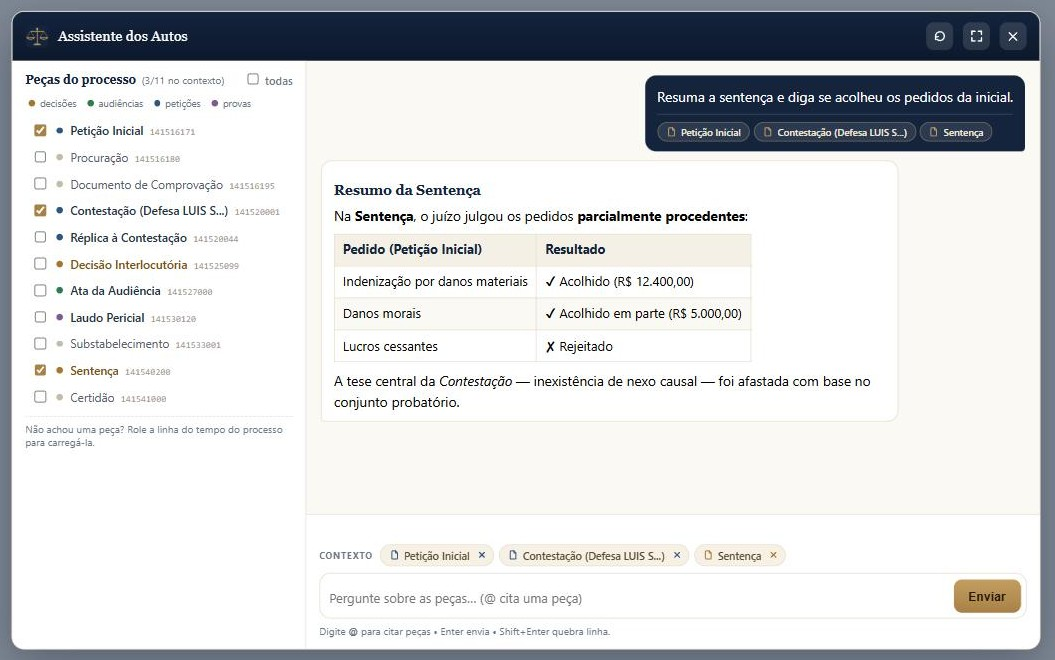
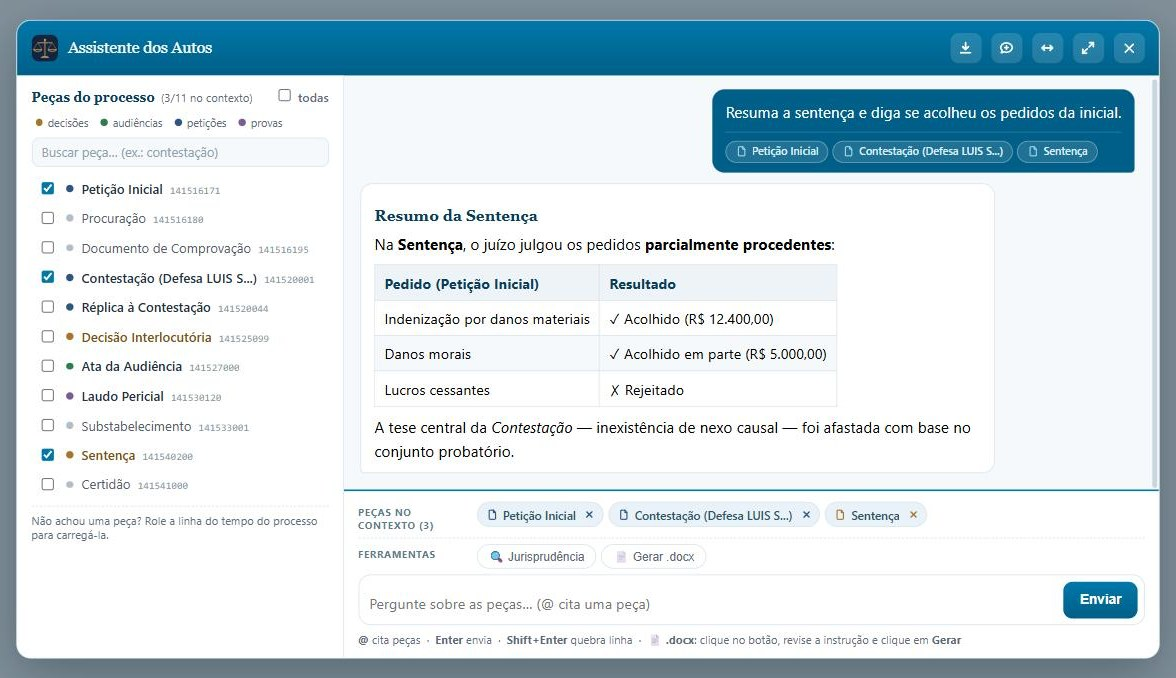
docs: README deixa claro que e chat manual (nao agente autonomo) + tela nova
Nova secao "O que ele e — e o que ele nao e": o usuario seleciona as pecas
manualmente e pergunta; diferente de agentes autonomos (Claude Code, Agent
SDK) que via MCP (ex.: TecJustica) navegam e leem os autos sozinhos, com
tabela comparativa. Screenshots de docs/ regeneradas na paleta do PJe via
mock local (dados ficticios), badges atualizados, recursos incluem busca de
pecas e a deteccao PDF x HTML com sniff %PDF-.

Testado ao vivo no PJe/TJCE: paleta nova, marcacao, medidor, deteccao
(Ata=HTML texto / Substabelecimento=PDF), chat com citacoes e geracao de
.docx com download — tudo funcionando.

Claude-Session: https://claude.ai/code/session_016HW275GyURaCABX8X3yTGo

Changed region(s): [[0.0, 0.0, 1.0, 1.0], [0.3033, 0.2727, 0.728, 0.4848], [0.8796, 0.8485, 0.9706, 0.9394]]

diff --git a/README.md b/README.md
@@ -3,25 +3,53 @@
 </p>
 
 <p align="center">
-  <a href="LICENSE"><img alt="Licença MIT" src="https://img.shields.io/badge/licen%C3%A7a-MIT-c49e60?style=flat-square"></a>
-  <img alt="Chrome Manifest V3" src="https://img.shields.io/badge/Chrome-Manifest%20V3-14243d?style=flat-square&logo=googlechrome&logoColor=white">
-  <img alt="Claude API" src="https://img.shields.io/badge/IA-Claude%20(Anthropic)-c49e60?style=flat-square">
-  <img alt="PJe 1º grau" src="https://img.shields.io/badge/PJe-1%C2%BA%20grau-14243d?style=flat-square">
+  <a href="LICENSE"><img alt="Licença MIT" src="https://img.shields.io/badge/licen%C3%A7a-MIT-0078aa?style=flat-square"></a>
+  <img alt="Chrome Manifest V3" src="https://img.shields.io/badge/Chrome-Manifest%20V3-005f88?style=flat-square&logo=googlechrome&logoColor=white">
+  <img alt="Claude API" src="https://img.shields.io/badge/IA-Claude%20(Anthropic)-0078aa?style=flat-square">
+  <img alt="PJe 1º grau" src="https://img.shields.io/badge/PJe-1%C2%BA%20grau-005f88?style=flat-square">
 </p>
 
 **PJe IA** é uma extensão Chrome que adiciona um assistente de IA à tela de autos digitais
 do **PJe (Processo Judicial Eletrônico)**. Você marca as peças do processo, pergunta em
 linguagem natural e o **Claude** responde com base no conteúdo real dos documentos —
-resumos, linhas do tempo, partes, pedidos, provas — direto na página do processo.
+resumos, linhas do tempo, partes, pedidos, provas — direto na página do processo, com a
+interface na paleta visual do próprio PJe.
 
 <p align="center">
   <img src="docs/painel-expandido.jpg" alt="Painel expandido: peças categorizadas por cor, chips de contexto e resposta em tabela" width="720">
 </p>
 
+## 🎯 O que ele é — e o que ele não é
+
+**PJe IA é um chat simplificado sobre os autos, não um agente autônomo.** Ele não navega
+no processo sozinho: **você** seleciona as peças (pelos checkboxes ou digitando `@`) e, a
+partir delas, faz perguntas, pedidos e gera documentos. A resposta usa somente os
+documentos que você marcou — nada entra no contexto sem a sua escolha.
+
+É um modelo diferente do de um **agente autônomo** — como o **Claude Code** ou agentes
+construídos com a **Claude Agent SDK** e frameworks afins — que, conectado a um MCP
+jurídico como o [TecJustiça](https://pjece.tecjustica.com/), decide sozinho quais peças
+abrir, lê os autos por conta própria e gerencia o contexto automaticamente.
+
+| | **PJe IA (esta extensão)** | **Agente autônomo + MCP** (Claude Code, Agent SDK…) |
+|---|---|---|
+| Quem escolhe as peças | **Você**, manualmente | O agente decide o que abrir e ler |
+| Fluxo | Marcar peças → perguntar → resposta | Delegar a tarefa → o agente navega e itera sozinho |
+| Contexto | Limitado à janela do modelo (medidor no rodapé) | Gerenciado automaticamente pelo agente |
+| Ideal para | Consultas dirigidas, resumos, relatórios de peças escolhidas | Autos muito volumosos, tarefas abertas de investigação |
+| Instalação | Extensão Chrome + chave da API | Ambiente de agente (CLI/SDK) + servidor MCP |
+
+Os dois se complementam: para o dia a dia dentro do PJe, o chat manual é direto e
+previsível (você sabe exatamente o que a IA leu); para autos gigantes ou tarefas de
+investigação aberta, um agente com MCP é o caminho — o próprio painel sugere o
+[TecJustiça MCP](https://pjece.tecjustica.com/) quando o contexto enche.
+
 ## ✨ Recursos
 
 - **Chat sobre os autos** — converse com o Claude sobre as peças selecionadas, com histórico multi-turno.
 - **Seleção de peças** — checkboxes por documento; só o que você marcar é enviado.
+- **Busca na lista de peças** — filtro instantâneo por título, ignorando acentos; "todas" marca/desmarca só as peças visíveis no filtro.
+- **PDF × HTML detectados automaticamente** — peças HTML têm o texto extraído localmente e vão como texto puro (fração do custo de um PDF); a detecção confere o content-type **e** a assinatura `%PDF-` do binário, então PDF mal-rotulado pelo servidor não vira lixo no contexto.
 - **Menção com `@`** — digite `@` no campo de pergunta para buscar e marcar peças sem sair do teclado: filtro que ignora acentos (`@peticao` acha "Petição Inicial"), navegação por `↑↓`, `Enter` marca/desmarca, `Esc` fecha.
 - **Peças categorizadas por cor** — decisões, atas/audiências, petições e provas ganham destaque automático na lista (regex sobre o título), com legenda no modo expandido.
 - **Contexto sempre visível** — chips acima do campo mostram as peças marcadas (com `×` para remover), o contador indica `x/y no contexto`, e cada pergunta exibe quais peças foram anexadas naquele turno.
@@ -33,7 +61,7 @@ resumos, linhas do tempo, partes, pedidos, provas — direto na página do proce
 - **Busca de jurisprudência** 🔍 — toggle que libera pesquisa em fontes oficiais (STF, STJ, Planalto, LexML…), com a consulta em andamento exibida em tempo real.
 - **Gerar .docx** 📄 — relatório do processo em Word de verdade (skill oficial da Anthropic), baixado direto pelo navegador.
 - **Streaming** — a resposta aparece em tempo real, com raciocínio do modelo em bloco colapsável.
-- **Medidor de contexto** — barra mostra quanto da janela do modelo (tokens e páginas de PDF) a conversa já ocupa, com alertas em 70% e 90%.
+- **Medidor de contexto** — barra mostra quanto da janela do modelo (tokens e páginas de PDF) a conversa já ocupa, atualizada em tempo real ao marcar/desmarcar peças (antes mesmo do envio), com alertas em 70% e 90%; desmarcar uma peça **libera contexto de verdade** no request seguinte.
 - **Files API + anexo incremental** — cada peça sobe uma única vez; os turnos seguintes reaproveitam o que já está na conversa.
 - **Modo expandido e tela cheia** — três tamanhos de painel para leitura confortável.
 - **Exportar a conversa** — baixe o diálogo em `.md` ou copie cada resposta com um clique.
@@ -44,7 +72,7 @@ resumos, linhas do tempo, partes, pedidos, provas — direto na página do proce
 
 <p align="center">
   <a href="https://github.com/marcosmarf27/pje-ia/releases/latest/download/pje-ia.zip">
-    <img alt="⬇️ Baixar a extensão (.zip)" src="https://img.shields.io/badge/⬇️%20Baixar%20a%20extens%C3%A3o-pje--ia.zip-c49e60?style=for-the-badge&labelColor=14243d">
+    <img alt="⬇️ Baixar a extensão (.zip)" src="https://img.shields.io/badge/⬇️%20Baixar%20a%20extens%C3%A3o-pje--ia.zip-0078aa?style=for-the-badge&labelColor=0a3d5c">
   </a>
 </p>
 